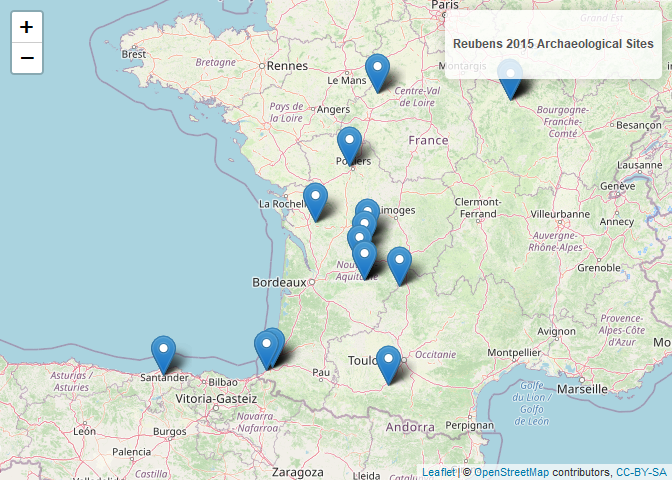
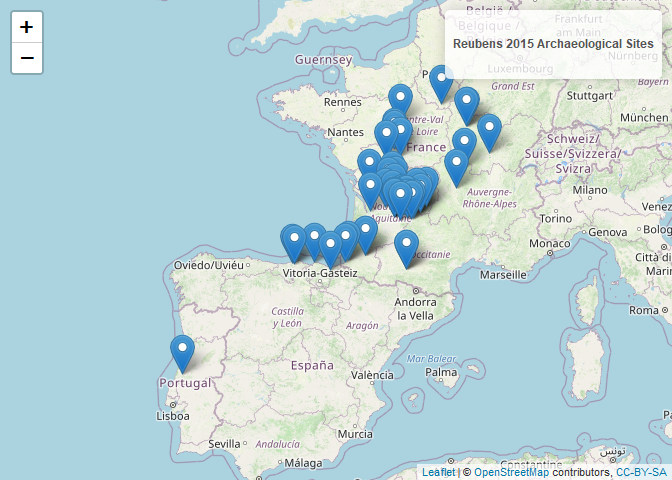
more map fixes

diff --git a/Ruebens et al 2015/docs/index.html b/Ruebens et al 2015/docs/index.html
@@ -3907,11 +3907,11 @@ function asArray(value) {
 </head>
 <body style="background-color: white;">
 <div id="htmlwidget_container">
-<div id="htmlwidget-56c70e8ee0150c357e6b" class="leaflet html-widget" style="width:100%;height:400px;">
+<div id="htmlwidget-3153d2c30ab29a2348c3" class="leaflet html-widget" style="width:100%;height:400px;">
 
 </div>
 </div>
-<script type="application/json" data-for="htmlwidget-56c70e8ee0150c357e6b">{"x":{"options":{"crs":{"crsClass":"L.CRS.EPSG3857","code":null,"proj4def":null,"projectedBounds":null,"options":{}}},"calls":[{"method":"addTiles","args":["//{s}.tile.openstreetmap.org/{z}/{x}/{y}.png",null,null,{"minZoom":0,"maxZoom":18,"tileSize":256,"subdomains":"abc","errorTileUrl":"","tms":false,"noWrap":false,"zoomOffset":0,"zoomReverse":false,"opacity":1,"zIndex":1,"detectRetina":false,"attribution":"&copy; <a href=\"http://openstreetmap.org\">OpenStreetMap<\/a> contributors, <a href=\"http://creativecommons.org/licenses/by-sa/2.0/\">CC-BY-SA<\/a>"}]},{"method":"addMarkers","args":[[43.436,44.861,43.361,47.595,45.51,47.62,45.104,46.605,45.747,43.477,45.321,47.7,43.201,44.767,44.864],[-1.587,0.582,-3.84,3.769,0.63,3.75,0.468,0.238,-0.506,-1.46,0.581,0.851,1.099,1.333,0.568],null,null,null,{"interactive":true,"draggable":false,"keyboard":true,"title":"","alt":"","zIndexOffset":0,"opacity":1,"riseOnHover":false,"riseOffset":250},["Bidart","Canaule II","Cueva Morin","Grotte du Bison","Grotte du Loup","Grotte du Renne","La Côte","La Grande Roche","La-Roche-à-Pierrot","Le Basté","Le Trou de la Chèvre","Les Cottés","Les Tambourets","Roc-de-Combe","Vieux Coutets"],null,null,null,["Site Name:  Bidart <br/> Community:  Bidart <br/> Region:  Pyrénées-Atlantiques <br/> Location:  open-air <br/> Information:  collected in 1975 by Normand and excavated in 1976-77 by Chauchat <br/> References:  Chauchat, 1977; Bachellerie, 2011","Site Name:  Canaule II <br/> Community:  Creysse <br/> Region:  Dordogne <br/> Location:  open-air <br/> Information:  excavated 1968-1969 by Guichard <br/> References:  Guichard, 1970; Bachellerie et al., 2007, 2011","Site Name:  Cueva Morin <br/> Community:  Villaneva-Villescusa <br/> Region:  Cantabria <br/> Location:  cave <br/> Information:  excavated 1912-1919; and 1966-1969 by Gonzalez Echegaray and Freeman <br/> References:  Gonzalez Echegaray & Freeman, 1971 and 1973","Site Name:  Grotte du Bison <br/> Community:  Arcy-sur-Cure <br/> Region:  Yonne <br/> Location:  cave <br/> Information:  excavated 1959-1963 by A. Leroi-Gourhan & F. Hours, since 1995 by F. David <br/> References:  David et al., 2005","Site Name:  Grotte du Loup <br/> Community:  Cosnac <br/> Region:  Corrèze <br/> Location:  cave <br/> Information:  excavated 1966-1972 by Mazière, 2012-2013 by A. Michel <br/> References:  Mazière and Raynal, 1983","Site Name:  Grotte du Renne <br/> Community:  Arcy-sur-Cure <br/> Region:  Yonne <br/> Location:  cave <br/> Information:  excavated 1949-1963 by A. Leroi-Gourhan <br/> References:  Leroi-Gourhan, 1961; Connet, 2002","Site Name:  La Côte <br/> Community:  Neuvic sur l'Isle <br/> Region:  Dordogne <br/> Location:  open-air <br/> Information:  discovered in 1966 and excavated 1972 by J-P. Texier & J. Gaussen <br/> References:  Gaussen and Texier, 1974; Pelegrin, 1995","Site Name:  La Grande Roche <br/> Community:  Quinçay <br/> Region:  Vienne <br/> Location:  cave <br/> Information:  discovered in 1952 and excavated 1968-1990 by Lévêque <br/> References:  Lévêque,1987; Roussel, 2011","Site Name:  La-Roche-à-Pierrot <br/> Community:  Saint-Césaire <br/> Region:  Charente-Maritime <br/> Location:  rockshelter <br/> Information:  excavated 1977-1993 by Lévêque, and since 2013 by Bachellerie <br/> References:  Lévêque et al., 1993; Soressi, 2010","Site Name:  Le Basté <br/> Community:  Saint Pierre d'Irube <br/> Region:  Pyrénées-Atlantiques <br/> Location:  open-air <br/> Information:  excavated 1966-1967 by Chauchat and Thibault <br/> References:  Chauchat, 1968; Bachellerie, 2011","Site Name:  Le Trou de la Chèvre <br/> Community:  Bourdeilles <br/> Region:  Dordogne <br/> Location:  rockshelter <br/> Information:  excavated 1948-1955 by Arambourou and Jude <br/> References:  Arambourou and Jude, 1964","Site Name:  Les Cottés <br/> Community:  Saint-Pierre de Maillé <br/> Region:  Vienne <br/> Location:  cave <br/> Information:  first work in 1881, excavations 1958-1961 by Pradel, and since 2006 by Soressi <br/> References:  Primault, 2003; Soressi et al., 2010","Site Name:  Les Tambourets <br/> Community:  Couladère <br/> Region:  Haute Garonne <br/> Location:  open-air <br/> Information:  collected by Méroc in 1963, excavated 1973, 1975, 1980 by Bricker and Alaux <br/> References:  Bricker and Laville, 1977; Bricker, 2014","Site Name:  Roc-de-Combe <br/> Community:  Nadaillac <br/> Region:  Lot <br/> Location:  cave <br/> Information:  excavated 1959 by Labrot, and 1966 by F. Bordes <br/> References:  Bordes and Labrot, 1967; Sonneville-Bordes, 2002","Site Name:  Vieux Coutets <br/> Community:  Creysse <br/> Region:  Dordogne <br/> Location:  open-air <br/> Information:  large-scale rescue excavation in 2003 <br/> References:  Grigoletto et al., 2008","Site Name:  Barbas III <br/> Community:  Creysse <br/> Region:  Dordogne <br/> Location:  open-air <br/> Information:  excavated in 1980s and currently, largely unpublished <br/> References:  Boëda et al., 1996","Site Name:  Canaule - La Ferme <br/> Community:  Canaule <br/> Region:  Creysse <br/> Location:  open-air <br/> Information:  discovered in 2012, unpublished <br/> References:  Lahaye et al., 2013","Site Name:  Grotte XVI <br/> Community:  Cénac-et-Saint-Julien <br/> Region:  Dordogne <br/> Location:  cave <br/> Information:  excavated 1983-2001 by Rigaud and Simek, 4 CP points, no detailed report on lithics <br/> References:  Rigaud and Simek, 1995; Lucas et al., 2003","Site Name:  Les Bossats <br/> Community:  Ormesson <br/> Region:  Seine-et-Marne <br/> Location:  open-air <br/> Information:  Excavations ongoing, unpublished <br/> References:  Bodu et al., 2014","Site Name:  Les Rigoux <br/> Community:  Creysse <br/> Region:  Dordogne <br/> Location:  open-air <br/> Information:  unpublished <br/> References:  Grigoletto et al., 2008","Site Name:  Ekain <br/> Community:  Guipuzcoa <br/> Region:  Pays Basque <br/> Location:  cave <br/> Information:  little material, strat position unclear, cave bear accumulation <br/> References:  Villaluenga et al., 2012","Site Name:  Font-de-Gaume <br/> Community:  Les Eyzies-de-Tayac <br/> Region:  Dordogne <br/> Location:  cave <br/> Information:  little material, 6 CP knives, 3 from surface, 3 from small assemblage (19 artefacts) <br/> References:  Prat and Sonneville-Bordes, 1969; Harrold, 1978","Site Name:  Labeko-Koba <br/> Community:  Mondragon <br/> Region:  Pays Basque <br/> Location:  cave <br/> Information:  62 lithics, hyena den?, 3 CP points <br/> References:  Arrizabalaga et al., 2000","Site Name:  La Chapelle-aux-Saints <br/> Community:  La Chapelle-aux-Saints <br/> Region:  Correze <br/> Location:  cave <br/> Information:  little material, 7 CP points, CP mentioned for several cavities <br/> References:  Beauval et al., 2004; Rendu et al., 2013","Site Name:  Abri du Chasseur <br/> Community:  Vilhonneur <br/> Region:  Charente <br/> Location:  rock shelter <br/> Information:  1930s,11 CP points mixed in with AU layer <br/> References:  Balout, 1958; Debenath, 1976; Harrold, 1978","Site Name:  Abri-du-Pas-Estret <br/> Community:  Les Eyzies-de-Tayac <br/> Region:  Dordogne <br/> Location:  rock shelter <br/> Information:  old excavations, little material (>6 CP knives) <br/> References:  Sonneville-Bordes, 1960; Harrold, 1978","Site Name:  Fontenioux <br/> Community:  Saint-Pierre-de-Maillé <br/> Region:  Vienne <br/> Location:  cave <br/> Information:  old excavations, CP layer underneath AU, new excavations by Roussel <br/> References:  Pradel, 1952; Harrold, 1978","Site Name:  Germolles <br/> Community:  Germolles <br/> Region:  Saone-et-Loire <br/> Location:  cave <br/> Information:  old excavations, 20 CP knives but stratigraphy badly understood, excavations ongoing <br/> References:  Desbrosse, 1982; Floss et al., 2013","Site Name:  Grotte des Fées <br/> Community:  Châtelperron <br/> Region:  Allier <br/> Location:  cave <br/> Information:  excavated 1867-1872 by Bailleau; and 1951-1954 &1962 by Delporte <br/> References:  Delporte, 1955; Zilhao et al., 2006, 2007","Site Name:  Laussel <br/> Community:  Marquay <br/> Region:  Dordogne <br/> Location:  rock shelter <br/> Information:  old biased excavations, def large CP site but exact composition unknown <br/> References:  Lalanne and Bouyssonie, 1941-1946; Roussot, 1985","Site Name:  Pair-non-Pair <br/> Community:  Prignac-et-Marcamps <br/> Region:  Gironde <br/> Location:  cave <br/> Information:  old excavations, little information, > 50 CP knives <br/> References:  Lenoir et al., 2006","Site Name:  Roc-de-Combe-Capelle <br/> Community:  Saint Avit Senieur <br/> Region:  Dordogne <br/> Location:  rock shelter <br/> Information:  old excavations, little information <br/> References:  de Sonneville-Bordes, 1960; Peyrony, 1943","Site Name:  Abri Bordes-Fitte <br/> Community:  Roches d'Abilly <br/> Region:  Indre-et-Loire <br/> Location:  rock shelter <br/> Information:  1949 by Bordes and Fitte, excavations ongoing by Aubry, taphonomical issues <br/> References:  Bordes and Fitte, 1950; Aubry et al., 2012, 2014","Site Name:  Abri Dubalen <br/> Community:  Brassempouy <br/> Region:  Landes <br/> Location:  rock shelter <br/> Information:  excavated in 1980s, many CP points but mixing with AU layer <br/> References:  Delporte and Buisson, 1991","Site Name:  Aranbaltza <br/> Community:  Barrika <br/> Region:  Pays Basque <br/> Location:  open-air <br/> Information:  1998-2004; without precise context but new excavations ongoing <br/> References:  Rios-Garaizar et al., 2012","Site Name:  Belle Roche <br/> Community:  Vaux <br/> Region:  Vienne <br/> Location:  cave <br/> Information:  2m2 test pit in 1959, 250 tools, 27 CP knives, site now destroyed and largely unpublished <br/> References:  Harrold, 1978","Site Name:  Bos-del-Ser <br/> Community:  Brive <br/> Region:  Corrèze <br/> Location:  rock shelter <br/> Information:  mixed but over 135 CP knives <br/> References:  Harrold, 1978; Demars, 1994","Site Name:  Combe-Saunière <br/> Community:  Sarliac-sur-l'Isle <br/> Region:  Dordogne <br/> Location:  rock shelter <br/> Information:  layer 2 yields both CP and Mousterian artefacts, largely unpublished <br/> References:  Ajas et al., 2013","Site Name:  Cueva del Pendo <br/> Community:  Camargo <br/> Region:  Cantabria <br/> Location:  cave <br/> Information:  secondary strat position, Aurignacian? <br/> References:  Montes et al., 2005","Site Name:  Fontéchevade <br/> Community:  Orgedeuil <br/> Region:  Charente <br/> Location:  cave <br/> Information:  stratigraphic problems, 31 CP knives without provenience <br/> References:  Chase et al., 2009","Site Name:  Grotte des Hyènes <br/> Community:  Brassempouy <br/> Region:  Landes <br/> Location:  cave <br/> Information:  sondage in 1983, ca. 13 CP points; eroded level but clearly CP <br/> References:  Delporte and Buisson, 1991; Henry-Gambier et al., 2004","Site Name:  La Ferrassie <br/> Community:  Savignac-de-Miremont <br/> Region:  Dordogne <br/> Location:  rock shelter <br/> Information:  mixing between MOU and CP but def CP present <br/> References:  Sonneville-Bordes, 1960; Delporte, 1984","Site Name:  La Quina - Aval <br/> Community:  Gardes-le-Pontaroux <br/> Region:  Charente <br/> Location:  rock shelter <br/> Information:  excavated1908-1936 by Henri-Martin and 1994-1995, 1998 by Dujardin; mixed <br/> References:  Henri-Martin, 1961; Dujardin and Kervazo, 2010","Site Name:  La Tour Fondue <br/> Community:  Chauriat <br/> Region:  Puy-de-Dôme <br/> Location:  rock shelter <br/> Information:  discovered in 1988, new fieldwork in 2004, blurred distinction between UP and CP <br/> References:  Pasty et al., 2012","Site Name:  Le Piage <br/> Community:  Fajoles <br/> Region:  Lot <br/> Location:  rock shelter <br/> Information:  excavated 1958-1968 by Champagne and Espitalié, and since 2004 by J-G. Bordes <br/> References:  Champagne and Espitalié, 1981; Bordes et al., 2008","Site Name:  Rachat <br/> Community:  Couladère <br/> Region:  Haute Garonne <br/> Location:  open-air <br/> Information:  surface collection of 1,800 lithics with 22 CP points <br/> References:  Meroc, 1963; Bricker, 2014"],{"interactive":false,"permanent":false,"direction":"auto","opacity":1,"offset":[0,0],"textsize":"13px","textOnly":false,"style":{"font-weight":"normal","padding":"3px 8px"},"className":"","sticky":true},null]},{"method":"addControl","args":["<h5> Reubens 2015 Archaeological Sites <\/h5>","topright",null,"info legend"]}],"limits":{"lat":[43.201,47.7],"lng":[-3.84,3.769]}},"evals":[],"jsHooks":[]}</script>
-<script type="application/htmlwidget-sizing" data-for="htmlwidget-56c70e8ee0150c357e6b">{"viewer":{"width":"100%","height":400,"padding":0,"fill":true},"browser":{"width":"100%","height":400,"padding":0,"fill":true}}</script>
+<script type="application/json" data-for="htmlwidget-3153d2c30ab29a2348c3">{"x":{"options":{"crs":{"crsClass":"L.CRS.EPSG3857","code":null,"proj4def":null,"projectedBounds":null,"options":{}}},"calls":[{"method":"addTiles","args":["//{s}.tile.openstreetmap.org/{z}/{x}/{y}.png",null,null,{"minZoom":0,"maxZoom":18,"tileSize":256,"subdomains":"abc","errorTileUrl":"","tms":false,"noWrap":false,"zoomOffset":0,"zoomReverse":false,"opacity":1,"zIndex":1,"detectRetina":false,"attribution":"&copy; <a href=\"http://openstreetmap.org\">OpenStreetMap<\/a> contributors, <a href=\"http://creativecommons.org/licenses/by-sa/2.0/\">CC-BY-SA<\/a>"}]},{"method":"addMarkers","args":[[43.436,44.861,43.361,47.595,45.51,47.62,45.104,46.605,45.747,43.477,45.321,47.7,43.201,44.767,44.864,44.866,44.861,44.816,48.248,44.855,43.163,44.931,39.757,44.989,45.194,44.931,46.703,46.808,46.39,44.945,45.039,44.753,46.995,43.633331,43.406,46.911,45.152,45.14,43.387,45.688,43.638,44.955,45.504,45.75,44.803,43.192],[-1.587,0.582,-3.84,3.769,0.63,3.75,0.468,0.238,-0.506,-1.46,0.581,0.851,1.099,1.333,0.568,0.5584,0.582,1.162,2.648,0.555,-2.258,1.019,-8.733,1.719,1.979,1.019,0.855,4.752,3.63,1.102,-0.502,0.85,0.593,-0.7,-2.965,0.56,1.537,0.16,-3.913,0.492,-0.692,0.941,0.303,3.279,1.396,1.105],null,null,null,{"interactive":true,"draggable":false,"keyboard":true,"title":"","alt":"","zIndexOffset":0,"opacity":1,"riseOnHover":false,"riseOffset":250},["Bidart","Canaule II","Cueva Morin","Grotte du Bison","Grotte du Loup","Grotte du Renne","La Côte","La Grande Roche","La-Roche-à-Pierrot","Le Basté","Le Trou de la Chèvre","Les Cottés","Les Tambourets","Roc-de-Combe","Vieux Coutets","Barbas III","Canaule - La Ferme","Grotte XVI","Les Bossats","Les Rigoux","Ekain","Font-de-Gaume","Labeko-Koba","La Chapelle-aux-Saints","Abri du Chasseur","Abri-du-Pas-Estret","Fontenioux","Germolles","Grotte des Fées","Laussel","Pair-non-Pair","Roc-de-Combe-Capelle","Abri Bordes-Fitte","Abri Dubalen","Aranbaltza","Belle Roche","Bos-del-Ser","Combe-Saunière","Cueva del Pendo","Fontéchevade","Grotte des Hyènes","La Ferrassie","La Quina - Aval","La Tour Fondue","Le Piage","Rachat"],null,null,null,["Site Name:  Bidart <br/> Community:  Bidart <br/> Region:  Pyrénées-Atlantiques <br/> Location:  open-air <br/> Information:  collected in 1975 by Normand and excavated in 1976-77 by Chauchat <br/> References:  Chauchat, 1977; Bachellerie, 2011","Site Name:  Canaule II <br/> Community:  Creysse <br/> Region:  Dordogne <br/> Location:  open-air <br/> Information:  excavated 1968-1969 by Guichard <br/> References:  Guichard, 1970; Bachellerie et al., 2007, 2011","Site Name:  Cueva Morin <br/> Community:  Villaneva-Villescusa <br/> Region:  Cantabria <br/> Location:  cave <br/> Information:  excavated 1912-1919; and 1966-1969 by Gonzalez Echegaray and Freeman <br/> References:  Gonzalez Echegaray & Freeman, 1971 and 1973","Site Name:  Grotte du Bison <br/> Community:  Arcy-sur-Cure <br/> Region:  Yonne <br/> Location:  cave <br/> Information:  excavated 1959-1963 by A. Leroi-Gourhan & F. Hours, since 1995 by F. David <br/> References:  David et al., 2005","Site Name:  Grotte du Loup <br/> Community:  Cosnac <br/> Region:  Corrèze <br/> Location:  cave <br/> Information:  excavated 1966-1972 by Mazière, 2012-2013 by A. Michel <br/> References:  Mazière and Raynal, 1983","Site Name:  Grotte du Renne <br/> Community:  Arcy-sur-Cure <br/> Region:  Yonne <br/> Location:  cave <br/> Information:  excavated 1949-1963 by A. Leroi-Gourhan <br/> References:  Leroi-Gourhan, 1961; Connet, 2002","Site Name:  La Côte <br/> Community:  Neuvic sur l'Isle <br/> Region:  Dordogne <br/> Location:  open-air <br/> Information:  discovered in 1966 and excavated 1972 by J-P. Texier & J. Gaussen <br/> References:  Gaussen and Texier, 1974; Pelegrin, 1995","Site Name:  La Grande Roche <br/> Community:  Quinçay <br/> Region:  Vienne <br/> Location:  cave <br/> Information:  discovered in 1952 and excavated 1968-1990 by Lévêque <br/> References:  Lévêque,1987; Roussel, 2011","Site Name:  La-Roche-à-Pierrot <br/> Community:  Saint-Césaire <br/> Region:  Charente-Maritime <br/> Location:  rockshelter <br/> Information:  excavated 1977-1993 by Lévêque, and since 2013 by Bachellerie <br/> References:  Lévêque et al., 1993; Soressi, 2010","Site Name:  Le Basté <br/> Community:  Saint Pierre d'Irube <br/> Region:  Pyrénées-Atlantiques <br/> Location:  open-air <br/> Information:  excavated 1966-1967 by Chauchat and Thibault <br/> References:  Chauchat, 1968; Bachellerie, 2011","Site Name:  Le Trou de la Chèvre <br/> Community:  Bourdeilles <br/> Region:  Dordogne <br/> Location:  rockshelter <br/> Information:  excavated 1948-1955 by Arambourou and Jude <br/> References:  Arambourou and Jude, 1964","Site Name:  Les Cottés <br/> Community:  Saint-Pierre de Maillé <br/> Region:  Vienne <br/> Location:  cave <br/> Information:  first work in 1881, excavations 1958-1961 by Pradel, and since 2006 by Soressi <br/> References:  Primault, 2003; Soressi et al., 2010","Site Name:  Les Tambourets <br/> Community:  Couladère <br/> Region:  Haute Garonne <br/> Location:  open-air <br/> Information:  collected by Méroc in 1963, excavated 1973, 1975, 1980 by Bricker and Alaux <br/> References:  Bricker and Laville, 1977; Bricker, 2014","Site Name:  Roc-de-Combe <br/> Community:  Nadaillac <br/> Region:  Lot <br/> Location:  cave <br/> Information:  excavated 1959 by Labrot, and 1966 by F. Bordes <br/> References:  Bordes and Labrot, 1967; Sonneville-Bordes, 2002","Site Name:  Vieux Coutets <br/> Community:  Creysse <br/> Region:  Dordogne <br/> Location:  open-air <br/> Information:  large-scale rescue excavation in 2003 <br/> References:  Grigoletto et al., 2008","Site Name:  Barbas III <br/> Community:  Creysse <br/> Region:  Dordogne <br/> Location:  open-air <br/> Information:  excavated in 1980s and currently, largely unpublished <br/> References:  Boëda et al., 1996","Site Name:  Canaule - La Ferme <br/> Community:  Canaule <br/> Region:  Creysse <br/> Location:  open-air <br/> Information:  discovered in 2012, unpublished <br/> References:  Lahaye et al., 2013","Site Name:  Grotte XVI <br/> Community:  Cénac-et-Saint-Julien <br/> Region:  Dordogne <br/> Location:  cave <br/> Information:  excavated 1983-2001 by Rigaud and Simek, 4 CP points, no detailed report on lithics <br/> References:  Rigaud and Simek, 1995; Lucas et al., 2003","Site Name:  Les Bossats <br/> Community:  Ormesson <br/> Region:  Seine-et-Marne <br/> Location:  open-air <br/> Information:  Excavations ongoing, unpublished <br/> References:  Bodu et al., 2014","Site Name:  Les Rigoux <br/> Community:  Creysse <br/> Region:  Dordogne <br/> Location:  open-air <br/> Information:  unpublished <br/> References:  Grigoletto et al., 2008","Site Name:  Ekain <br/> Community:  Guipuzcoa <br/> Region:  Pays Basque <br/> Location:  cave <br/> Information:  little material, strat position unclear, cave bear accumulation <br/> References:  Villaluenga et al., 2012","Site Name:  Font-de-Gaume <br/> Community:  Les Eyzies-de-Tayac <br/> Region:  Dordogne <br/> Location:  cave <br/> Information:  little material, 6 CP knives, 3 from surface, 3 from small assemblage (19 artefacts) <br/> References:  Prat and Sonneville-Bordes, 1969; Harrold, 1978","Site Name:  Labeko-Koba <br/> Community:  Mondragon <br/> Region:  Pays Basque <br/> Location:  cave <br/> Information:  62 lithics, hyena den?, 3 CP points <br/> References:  Arrizabalaga et al., 2000","Site Name:  La Chapelle-aux-Saints <br/> Community:  La Chapelle-aux-Saints <br/> Region:  Correze <br/> Location:  cave <br/> Information:  little material, 7 CP points, CP mentioned for several cavities <br/> References:  Beauval et al., 2004; Rendu et al., 2013","Site Name:  Abri du Chasseur <br/> Community:  Vilhonneur <br/> Region:  Charente <br/> Location:  rock shelter <br/> Information:  1930s,11 CP points mixed in with AU layer <br/> References:  Balout, 1958; Debenath, 1976; Harrold, 1978","Site Name:  Abri-du-Pas-Estret <br/> Community:  Les Eyzies-de-Tayac <br/> Region:  Dordogne <br/> Location:  rock shelter <br/> Information:  old excavations, little material (>6 CP knives) <br/> References:  Sonneville-Bordes, 1960; Harrold, 1978","Site Name:  Fontenioux <br/> Community:  Saint-Pierre-de-Maillé <br/> Region:  Vienne <br/> Location:  cave <br/> Information:  old excavations, CP layer underneath AU, new excavations by Roussel <br/> References:  Pradel, 1952; Harrold, 1978","Site Name:  Germolles <br/> Community:  Germolles <br/> Region:  Saone-et-Loire <br/> Location:  cave <br/> Information:  old excavations, 20 CP knives but stratigraphy badly understood, excavations ongoing <br/> References:  Desbrosse, 1982; Floss et al., 2013","Site Name:  Grotte des Fées <br/> Community:  Châtelperron <br/> Region:  Allier <br/> Location:  cave <br/> Information:  excavated 1867-1872 by Bailleau; and 1951-1954 &1962 by Delporte <br/> References:  Delporte, 1955; Zilhao et al., 2006, 2007","Site Name:  Laussel <br/> Community:  Marquay <br/> Region:  Dordogne <br/> Location:  rock shelter <br/> Information:  old biased excavations, def large CP site but exact composition unknown <br/> References:  Lalanne and Bouyssonie, 1941-1946; Roussot, 1985","Site Name:  Pair-non-Pair <br/> Community:  Prignac-et-Marcamps <br/> Region:  Gironde <br/> Location:  cave <br/> Information:  old excavations, little information, > 50 CP knives <br/> References:  Lenoir et al., 2006","Site Name:  Roc-de-Combe-Capelle <br/> Community:  Saint Avit Senieur <br/> Region:  Dordogne <br/> Location:  rock shelter <br/> Information:  old excavations, little information <br/> References:  de Sonneville-Bordes, 1960; Peyrony, 1943","Site Name:  Abri Bordes-Fitte <br/> Community:  Roches d'Abilly <br/> Region:  Indre-et-Loire <br/> Location:  rock shelter <br/> Information:  1949 by Bordes and Fitte, excavations ongoing by Aubry, taphonomical issues <br/> References:  Bordes and Fitte, 1950; Aubry et al., 2012, 2014","Site Name:  Abri Dubalen <br/> Community:  Brassempouy <br/> Region:  Landes <br/> Location:  rock shelter <br/> Information:  excavated in 1980s, many CP points but mixing with AU layer <br/> References:  Delporte and Buisson, 1991","Site Name:  Aranbaltza <br/> Community:  Barrika <br/> Region:  Pays Basque <br/> Location:  open-air <br/> Information:  1998-2004; without precise context but new excavations ongoing <br/> References:  Rios-Garaizar et al., 2012","Site Name:  Belle Roche <br/> Community:  Vaux <br/> Region:  Vienne <br/> Location:  cave <br/> Information:  2m2 test pit in 1959, 250 tools, 27 CP knives, site now destroyed and largely unpublished <br/> References:  Harrold, 1978","Site Name:  Bos-del-Ser <br/> Community:  Brive <br/> Region:  Corrèze <br/> Location:  rock shelter <br/> Information:  mixed but over 135 CP knives <br/> References:  Harrold, 1978; Demars, 1994","Site Name:  Combe-Saunière <br/> Community:  Sarliac-sur-l'Isle <br/> Region:  Dordogne <br/> Location:  rock shelter <br/> Information:  layer 2 yields both CP and Mousterian artefacts, largely unpublished <br/> References:  Ajas et al., 2013","Site Name:  Cueva del Pendo <br/> Community:  Camargo <br/> Region:  Cantabria <br/> Location:  cave <br/> Information:  secondary strat position, Aurignacian? <br/> References:  Montes et al., 2005","Site Name:  Fontéchevade <br/> Community:  Orgedeuil <br/> Region:  Charente <br/> Location:  cave <br/> Information:  stratigraphic problems, 31 CP knives without provenience <br/> References:  Chase et al., 2009","Site Name:  Grotte des Hyènes <br/> Community:  Brassempouy <br/> Region:  Landes <br/> Location:  cave <br/> Information:  sondage in 1983, ca. 13 CP points; eroded level but clearly CP <br/> References:  Delporte and Buisson, 1991; Henry-Gambier et al., 2004","Site Name:  La Ferrassie <br/> Community:  Savignac-de-Miremont <br/> Region:  Dordogne <br/> Location:  rock shelter <br/> Information:  mixing between MOU and CP but def CP present <br/> References:  Sonneville-Bordes, 1960; Delporte, 1984","Site Name:  La Quina - Aval <br/> Community:  Gardes-le-Pontaroux <br/> Region:  Charente <br/> Location:  rock shelter <br/> Information:  excavated1908-1936 by Henri-Martin and 1994-1995, 1998 by Dujardin; mixed <br/> References:  Henri-Martin, 1961; Dujardin and Kervazo, 2010","Site Name:  La Tour Fondue <br/> Community:  Chauriat <br/> Region:  Puy-de-Dôme <br/> Location:  rock shelter <br/> Information:  discovered in 1988, new fieldwork in 2004, blurred distinction between UP and CP <br/> References:  Pasty et al., 2012","Site Name:  Le Piage <br/> Community:  Fajoles <br/> Region:  Lot <br/> Location:  rock shelter <br/> Information:  excavated 1958-1968 by Champagne and Espitalié, and since 2004 by J-G. Bordes <br/> References:  Champagne and Espitalié, 1981; Bordes et al., 2008","Site Name:  Rachat <br/> Community:  Couladère <br/> Region:  Haute Garonne <br/> Location:  open-air <br/> Information:  surface collection of 1,800 lithics with 22 CP points <br/> References:  Meroc, 1963; Bricker, 2014"],{"interactive":false,"permanent":false,"direction":"auto","opacity":1,"offset":[0,0],"textsize":"13px","textOnly":false,"style":{"font-weight":"normal","padding":"3px 8px"},"className":"","sticky":true},null]},{"method":"addControl","args":["<h5> Reubens 2015 Archaeological Sites <\/h5>","topright",null,"info legend"]}],"limits":{"lat":[39.757,48.248],"lng":[-8.733,4.752]}},"evals":[],"jsHooks":[]}</script>
+<script type="application/htmlwidget-sizing" data-for="htmlwidget-3153d2c30ab29a2348c3">{"viewer":{"width":"100%","height":400,"padding":0,"fill":true},"browser":{"width":"100%","height":400,"padding":0,"fill":true}}</script>
 </body>
 </html>

diff --git a/Ruebens et al 2015/readme.md b/Ruebens et al 2015/readme.md
@@ -85,7 +85,7 @@ mylabels <- paste(
 
 m <- leaflet() %>%
       addTiles %>%
-      addMarkers(data = cp_sites1_sf,
+      addMarkers(data = cp_sites_sf,
                   popup = ~Sitename,
                   label = mylabels,
                   labelOptions = labelOptions(style = list("font-weight" = "normal", padding = "3px 8px"), 
